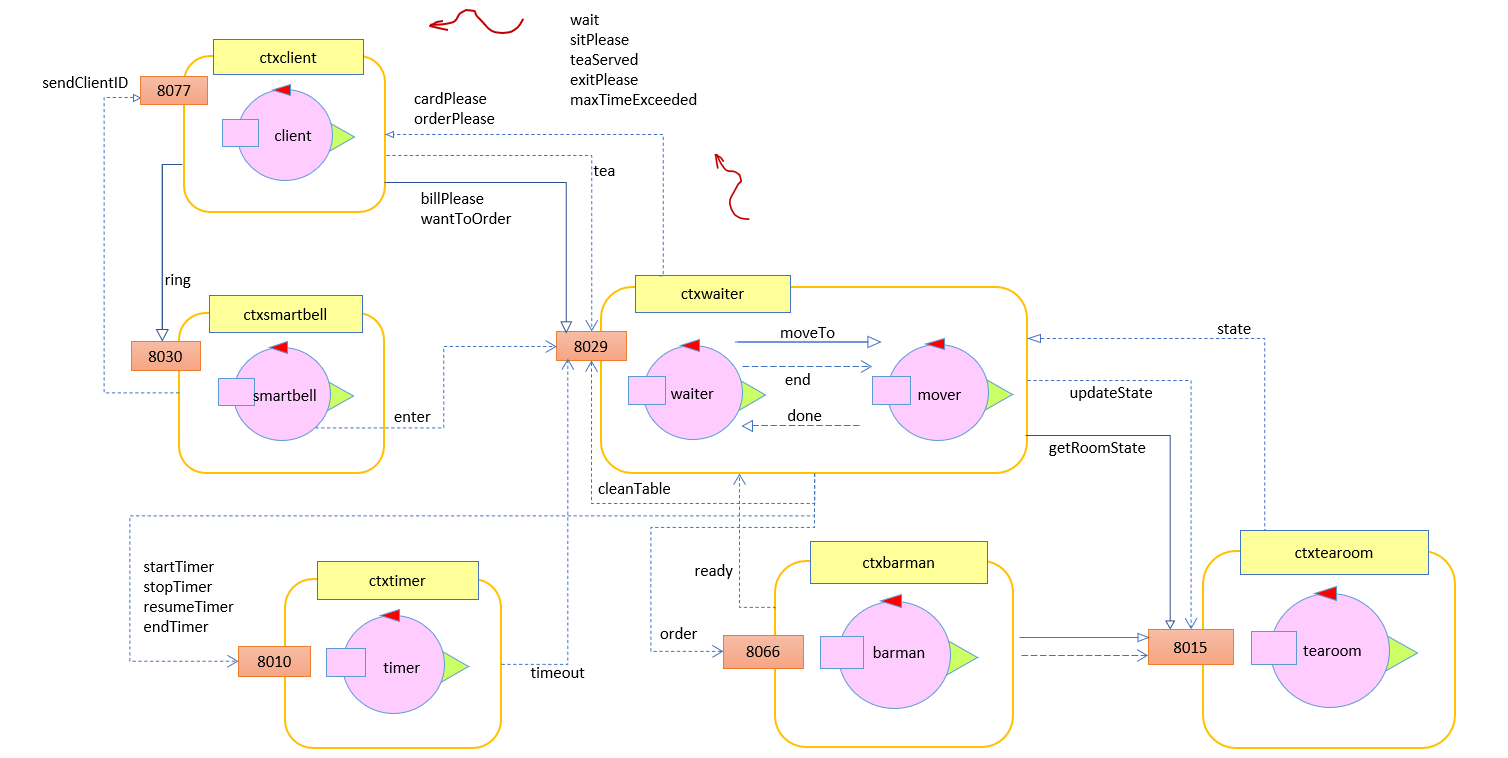
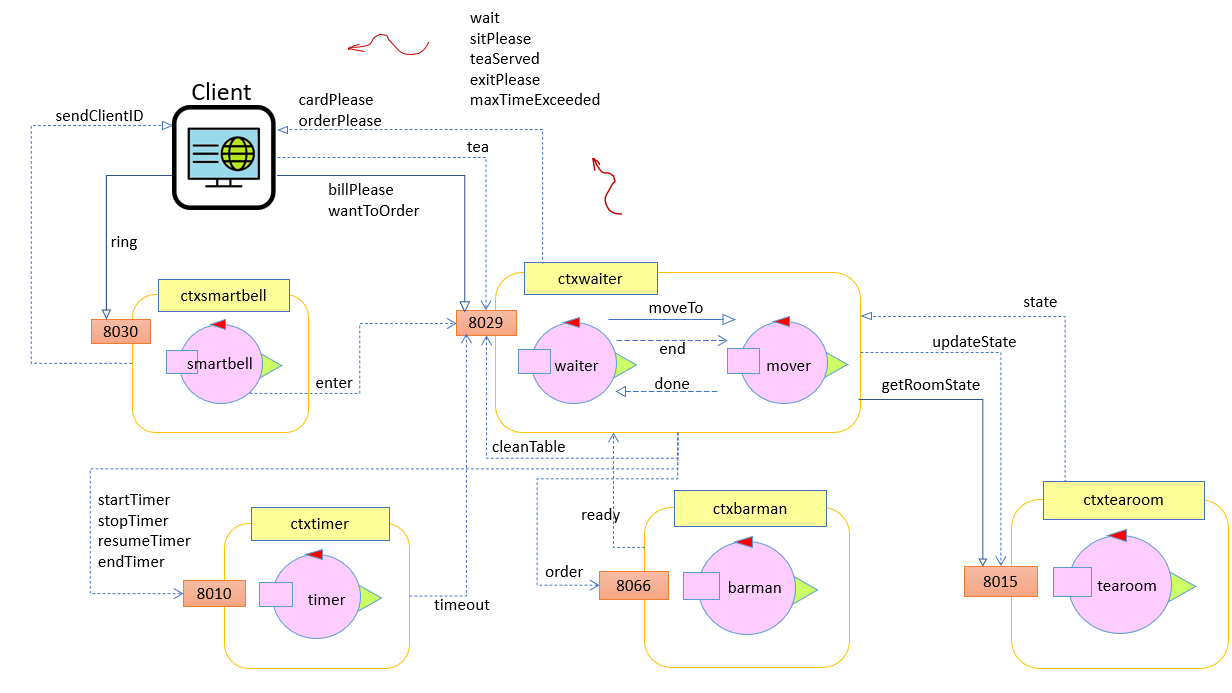
update sprint1 docs

diff --git a/Sprint1_ISS2020/userDocs/Documento_Martini_Drudi.html b/Sprint1_ISS2020/userDocs/Documento_Martini_Drudi.html
@@ -555,32 +555,12 @@ mevid{
 			<li>we want an <i>executable model</i>, so that it is possible to show it to the customer to verify that everything is going as expected and to eventually allow him to better understand what he wants from our system</li>
 		</ol></br>
 		To achieve the above goals we decided to use the <em>QAKctor modeling language</em> : <a href="https://htmlpreview.github.io/?https://raw.githubusercontent.com/anatali/iss2020LabBo/master/it.unibo.qakactor/userDocs/LabQakIntro2020.html">QAK language and actors</a>. We decided to use a modeling language because a programming language would have required to consider every single detail while we want to focus only on the essential aspects of the system.
-		Also the QAKctor language natively provides us with the concept of QActor which is the abstraction that best approximates the entities involved in our system. In fact, Waiter, Client, Smartbell and Barman are all autonomous and independent entities, whose behavior can be described by a Moore finite state machine.
+		Also the QAKctor language natively provides us with the concept of QActor which is the abstraction that best approximates the entities involved in our system. In fact, Waiter, Smartbell and Barman are all autonomous and independent entities, whose behavior can be described by a Moore finite state machine.
 		And this is precisely the semantics of QAKctor. 
 		</br>Once a model has been produced in the QAKctor modeling language, the Software Factory that accompanies the modeling language will automatically create an <i>executable prototype in Kotlin language</i> that can be shown to the customer. </br>
 		</br></br>
 		Since Waiter, Client, Smartbell and Barman are autonomous and independent entities, it seemed appropriate to move from a communication based on shared memory to a <i>communication based on message exchange</i>. By doing so, it will not be necessary to manage critical runs to shared resources, in addition to the fact 
 		that communication throught shared memory it's not always possible, especially in a context with heterogeneous computational nodes typical of IoT application and also of this system.
-		
-		<h5>Qak Client model</h5>
-		<center><img src="img/req_clientactor.png" alt="req_clientactor.png" width="50%"/></center>
-		<p>Here, since the <i>client</i> should be a human being, there is the need of MOK messages to simulate a correct human behaviour. Hereunder are described the messages related to the client actor (qakctor).</p>
-		<pre class="mytab"><code><keyw>System</keyw> client
-
-<keyw>Request</keyw> ring : ring(ARG)
-<keyw>Reply</keyw> sendClientID : sendClientID(CLIENT_ID)
-<keyw>Event</keyw> wait : wait(CLIENT_ID, MAX_TIME)
-<keyw>Event</keyw> sitPlease : sitPlease(CLIENT_ID, TEATABLE_ID)
-<keyw>Dispatch</keyw> tea : tea(TEA)
-<keyw>Event</keyw> teaServed : teaServed(TEATABLE_ID, TEA)
-<keyw>Request</keyw> billPlease : billPlease(TEATABLE_ID)
-<keyw>Reply</keyw> cardPlease : cardPlease(ARG)
-<keyw>Event</keyw> maxTimeExceeded : maxTimeExceeded(TEATABLE_ID) //the waiter sends this message when it is already at the table
-<keyw>Event</keyw> exitPlease : exitPlease(CLIENT_ID)</code></pre>
-		<p class="did">Most interactions have been modeled as "fire-and-forget" (message events and dispatching) since a request-reply interactions doesn't seem to be needed from requirements (sender doen't need a specific reply from receiver). Moreover, the waiter doesn't know directly the client (apart from its client identifier), hence it needs to communicate through events.</p>
-		<p class="did">Instead, <i>ring</i> and <i>billPlease</i> messages have been represented as a request-reply interaction. In the first case, client expects its <i>clientidentifier</i> (or the prohibition to enter the safe tearoom) as an answer and, in the second case, it expects the amout to pay for the bill.</p>
-		</br>
-		<p>After the <i>first meeting</i> with the client it was made clear that the <u>client actor</u> will not be developed as a QAKctor, but as a <u>Web GUI (user-interface)</u> that allows to directly test the application flow from the customer point of view. In fact, a GUI helps to better test the functioning of our system: to create different use cases the custumer only has to "click on different buttons". Moreover, the choice of a <i>web</i> GUI comes from the fact that it does not require any kind of software installation by the customer, so it is a "ready-to-use" tool for testing.  </p>
 		
 		<h5>Qak Smartbell model</h5>
 		<center><img src="img/req_smartbellactor.png" alt="req_smartbellactor.png" width="50%"/></center>
@@ -876,9 +856,12 @@ ExternalQActor timer context ctxtimer
 }</code></pre>
 		</li>
 		<li><h4>Functional TestPlan</h4>
-		<p>Since our robot must move inside the safe-tearoom and between different point of interests (service desk, teatables, entrance door and exit door, home), we must find a way to automatically verify that the DDR robot is in the right place (requirement achieved).</p>
+		<h5>Client MOK</h5>
+		<p>The client is not part of the system we have to develop, but it is a useful tool to better test the system and its behaviour. After the <i>first meeting</i> with the client it was made clear that the <u>client actor</u> will not be developed as a QAKctor, but as a <u>Web GUI (user-interface)</u> that allows to directly test the application flow from the customer point of view. In fact, a GUI helps to better test the functioning of our system: to create different use cases the custumer only has to "click on different buttons". Moreover, the choice of a <i>web</i> GUI comes from the fact that it does not require any kind of software installation by the customer, so it is a "ready-to-use" tool for testing. </p>
 		<h5>Representation of the tearoom</h5>
-		<p>There is the need of introducing a proper representation of the safe tearoom space. Through this representation, it is possible to check if the waiter-robot has achieved the requirement, that means that it moved from one point of interest to another one (i.e. from home to one teatable).</p>
+		<p>Since our robot must move inside the safe-tearoom and between different point of interests (service desk, teatables, entrance door and exit door, home), we must find a way to automatically verify that the DDR robot is in the right place (requirement achieved). Therefore, there is the need of introducing a proper representation of the safe tearoom space. Through this representation, it is possible to check if the waiter-robot has achieved the requirement, that means that it moved from one point of interest to another one (i.e. from home to one teatable).</p>
+		
+		@TONNO
 		
 		The room will be divided into a grid of nh*nw squares of side R and this grid can be represented by a proper data structure as a matrix whose dimension will be nh*nw. The matrix will contain a character representing the "state" of every cell of the grid. For instance:
 		<ul>
@@ -1657,6 +1640,26 @@ ExternalQActor waiter context ctxwaiter
 			Per quanto riguarada gli altri stati, ogni attore gestisce il proprio. Dunque, la gestione degli stati è distribuita, poiché ogni attore mantiene il suo stato di pertinenza e non vi è un unica autorità centrale che si occupa di mantenerli tutti.
 			
 			-->
+			<h5>Client MOK Web-GUI</h5>
+			<p>As the client MOK needs to interact with the system, it needs to exchange messages with some of our actors (in particular Waiter and Smartbell). Hence, the client has been represented (here) as an actor and its messages are represented in the QAK syntax. This has been done only for the sake of highlight the principal aspects of its interaction with the system by using a formal modeling language (QAK modeling language).</p>
+			<center><img src="img/req_clientactor.png" alt="req_clientactor.png" width="50%"/></center>
+			<pre class="mytab"><code><keyw>System</keyw> client
+
+<keyw>Request</keyw> ring : ring(ARG)
+<keyw>Reply</keyw> sendClientID : sendClientID(CLIENT_ID)
+<keyw>Event</keyw> wait : wait(CLIENT_ID, MAX_TIME)
+<keyw>Event</keyw> sitPlease : sitPlease(CLIENT_ID, TEATABLE_ID)
+<keyw>Request</keyw> wantToOrder		: wantToOrder(TEATABLE_ID)	         
+<keyw>Reply</keyw> orderPlease		: orderPlease(ARG)
+<keyw>Dispatch</keyw> tea : tea(TEA)
+<keyw>Event</keyw> teaServed : teaServed(TEATABLE_ID, TEA)
+<keyw>Request</keyw> billPlease : billPlease(TEATABLE_ID)
+<keyw>Reply</keyw> cardPlease : cardPlease(ARG)
+<keyw>Event</keyw> maxTimeExceeded : maxTimeExceeded(TEATABLE_ID) //the waiter sends this message when it is already at the table
+<keyw>Event</keyw> exitPlease : exitPlease(CLIENT_ID)</code></pre>
+		<p class="did">Most interactions have been modeled as "fire-and-forget" (message events and dispatching) since a request-reply interactions doesn't seem to be needed from requirements (sender doen't need a specific reply from receiver). Moreover, the waiter doesn't know directly the client (apart from its client identifier), hence it needs to communicate through events.</p>
+		<p class="did">Instead, <i>ring</i> and <i>billPlease</i> messages have been represented as a request-reply interaction. In the first case, client expects its <i>clientidentifier</i> (or the prohibition to enter the safe tearoom) as an answer and, in the second case, it expects the amout to pay for the bill.</p>
+		</br>
 			<h5>Representation of the tearoom</h5>
 			<p>Since the position of the robot (waiter) inside the map can be used to verify if it is behaving correctly, we need first to define a room-map. To have a faithful map, though, there is the need to previously scan the room with the robot. In this phase, some tuning (adjusting virtual robot speed and step size) will be required to "tailor" the map representation around the virtual robot itself. Hereunder, a possible room-map has been obtained after a scan with the virtual robot:</p>
 			<table width="100%">
@@ -1705,7 +1708,7 @@ ExternalQActor waiter context ctxwaiter
 			</ul>
 			</p>
 			<p>Here is an example of a test to verify barman state:
-			<pre><code>class TestRobotboundary {
+			<pre><code>class TestBarman {
 			
 	var barman             : ActorBasic? = null
 	val mqttTest   	      = MqttUtils("test") 

diff --git a/Sprint1_ISS2020/userDocs/Progetto_Martini_Drudi.html b/Sprint1_ISS2020/userDocs/Progetto_Martini_Drudi.html
@@ -237,7 +237,7 @@ video{
 	<div>
 		<ul>
 			<li><h5>Logical Architecture</h5>
-				<p>Hereunder is reported the logical architecture as described in the Problem Analysis. No changes have been applied to the high-level (logical) architecture apart from the client: the client is now considered as a WebGUI to MOK the client behaviour. This way, it was simplier to test the system (expecially the waiter) without a QAK client actor.</p>
+				<p>Hereunder is reported the logical architecture as described in the Problem Analysis. No changes have been applied to the high-level (logical) architecture.</p>
 				<center><img src="img/allactors_proj.png" alt="logical architecture" width="100%"/></center>
 				<p>Among all the actors, the waiter has the most complex architecture, as shown by the following paragraph.</p>
 			</li>
@@ -287,7 +287,7 @@ video{
 		As for what concernes the QAK modeling, most of the actors were unaltered from the problem analysis. The only actor which as undergone some changes (the most relevant to our system) is the waiter.
 		</p>
 		<p>
-		The source code for all QAK actor can by viewed at: <a href="./waiter.qak">Waiter, timer and mover</a> - <a href="./tearoom.qak">Tearoom, smartbell and barman</a> .
+		@TONNO The source code for all QAK actor can by viewed at: <a href="./waiter.qak">Waiter, timer and mover</a> - <a href="./tearoom.qak">Tearoom, smartbell and barman</a> .
 		</p>
 		<ul>
 			<li><h5>Waiter QAK behaviour</h5>
@@ -746,13 +746,13 @@ assign(X,Y).</code></pre>
 			</ul>
 		</p>
 		<p>
-			As for what concerns the client-side part of the web gui, we decided to use web sockets to obtain a "real-time" updating of the html page while the waiter was working. That way, the client is updated on its situation. The configuration class (server-side) is <a href="./WebSocketConfig.java">WebSocketConfig</a>, while client-side the web socket is managed through javascript: <a href="./reception.js">Javascript Socket</a>.
+			@TONNO As for what concerns the client-side part of the web gui, we decided to use web sockets to obtain a "real-time" updating of the html page while the waiter was working. That way, the client is updated on its situation. The configuration class (server-side) is <a href="./WebSocketConfig.java">WebSocketConfig</a>, while client-side the web socket is managed through javascript: <a href="./reception.js">Javascript Socket</a>.
 		</p>
 		<p class="did">
-			The code below represents the controller class "ProvaController" (as it helds the @Controller annotation) which is responsible for managing the GET ans POST requests (through @GetMapping and @PostMapping annotations.
+			The code below represents the controller class "ProvaController" (as it helds the @Controller annotation) which is responsible for managing the GET ans POST requests (through @GetMapping("http_Request_path") and @PostMapping("http_Request_path") annotations).
 		</p>
 		<pre class="mytab"><code>@Controller
-public class ProvaController {
+@TONNO public class ProvaController {
 	
 	String appName     ="provaGui";
     String htmlPage  = "welcome";
@@ -770,10 +770,10 @@ public class ProvaController {
         connQakSupportS = new ConnQakCoapMine();
         connQakSupportW = new ConnQakCoapMine();
         mqttSupport = new MqttConfig("localhost:1883");
-        connQakSupportS.createConnection("localhost", "8015", "ctxtearoom", "smartbell");
-        connQakSupportW.createConnection("127.0.0.1", "8029", "ctxwaiter", "waiter");
+        <mevid>connQakSupportS.createConnection("localhost", "8015", "ctxtearoom", "smartbell");</mevid>
+        <mevid>connQakSupportW.createConnection("127.0.0.1", "8029", "ctxwaiter", "waiter");</mevid>
         mqttSupport.connect();
-        mqttSupport.setReceivingHandler("unibo/polar", this);
+        <mevid>mqttSupport.setReceivingHandler("unibo/polar", this);</mevid>
         
 	}
 	
@@ -794,14 +794,14 @@ public class ProvaController {
 		
 		try {
 			ApplMessage msg = MsgUtil.buildRequest("clientWebPage", "ring", "ring()", "smartbell");
-			String answer = connQakSupportS.request( msg );
+			<mevid>String answer = connQakSupportS.request( msg );</mevid>
 			this.cID = answer;
 			
 			while(!(model!=null)) {
 				System.out.println("________________________Waiting for smartbell reply...");
 				Thread.sleep(200);
 			}
-			ResourceRepMine rep = getWebPageRep(0);
+			<mevid>ResourceRepMine rep = getWebPageRep(0);</mevid>
 			
 			if(!(rep.getContent().contains("sendClientID"))) {
 				System.out.println("_______________________Smartbell | Primo stato scartato: "+rep.getContent());
@@ -824,7 +824,7 @@ public class ProvaController {
 		
 		System.out.println("_______________________Client wants to order...");
 		
-		connQakSupportW.request(MsgUtil.buildRequest("clientWebPage", "wantToOrder", "wantToOrder("+this.tID+")", "waiter"));
+		<mevid>connQakSupportW.request(MsgUtil.buildRequest("clientWebPage", "wantToOrder", "wantToOrder("+this.tID+")", "waiter"));</mevid>
 		while(!(model!=null)) {
 			System.out.println("________________________Waiting for waiter reply...");
 			try {
@@ -835,7 +835,7 @@ public class ProvaController {
 			}
 		}
 		
-		ResourceRepMine rep = getWebPageRep(1);
+		<mevid>ResourceRepMine rep = getWebPageRep(1);</mevid>
 		System.out.println("Waiter arrived at table... | " + rep.getContent());
 		return "order";
 	}
@@ -845,7 +845,7 @@ public class ProvaController {
 	public String afterOrder(@RequestParam String type, Model model){
 		
 		System.out.println("_______________________Client has requested " + type + " tea...");		
-		connQakSupportW.forward(MsgUtil.buildDispatch("clientWebPage", "tea", "tea("+this.tID+","+type+")", "waiter"));
+		<mevid>connQakSupportW.forward(MsgUtil.buildDispatch("clientWebPage", "tea", "tea("+this.tID+","+type+")", "waiter"));</mevid>
 		model.addAttribute("teaOrdered", type);
 		return "consume";
 	}
@@ -854,7 +854,7 @@ public class ProvaController {
 	public String afterOrder(Model model){
 		
 		System.out.println("_______________________Client has requested  the bill...");		
-		connQakSupportW.request(MsgUtil.buildRequest("clientWebPage", "billPlease", "billPlease("+this.tID+")", "waiter"));
+		<mevid>connQakSupportW.request(MsgUtil.buildRequest("clientWebPage", "billPlease", "billPlease("+this.tID+")", "waiter"));</mevid>
 		while(!(model!=null)) {
 			System.out.println("________________________Waiting for waiter reply...");
 			try {
@@ -864,7 +864,7 @@ public class ProvaController {
 				e.printStackTrace();
 			}
 		}
-		ResourceRepMine rep = getWebPageRep(1);
+		<mevid>ResourceRepMine rep = getWebPageRep(1);</mevid>
 		System.out.println("Waiter arrived at the table... | "+rep.getContent());
 		return "exit";
 	}
